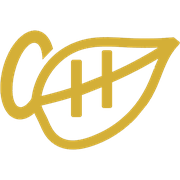
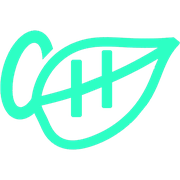
cyanblue

Changed region(s): [[0.0, 0.1667, 1.0, 0.8333]]

diff --git a/frontend/index.html b/frontend/index.html
@@ -2,11 +2,11 @@
 <html lang="en">
   <head>
     <meta charset="UTF-8" />
-    <link rel="icon" type="image/png" sizes="32x32" href="/favicon-32.png?v=2" />
-    <link rel="icon" type="image/png" sizes="16x16" href="/favicon-16.png?v=2" />
-    <link rel="icon" type="image/png" sizes="32x32" media="(prefers-color-scheme: dark)" href="/favicon-32-dark.png?v=2" />
-    <link rel="icon" type="image/png" sizes="16x16" media="(prefers-color-scheme: dark)" href="/favicon-16-dark.png?v=2" />
-    <link rel="apple-touch-icon" sizes="180x180" href="/apple-touch-icon.png?v=2" />
+    <link rel="icon" type="image/png" sizes="32x32" href="/favicon-32.png?v=3" />
+    <link rel="icon" type="image/png" sizes="16x16" href="/favicon-16.png?v=3" />
+    <link rel="icon" type="image/png" sizes="32x32" media="(prefers-color-scheme: dark)" href="/favicon-32-dark.png?v=3" />
+    <link rel="icon" type="image/png" sizes="16x16" media="(prefers-color-scheme: dark)" href="/favicon-16-dark.png?v=3" />
+    <link rel="apple-touch-icon" sizes="180x180" href="/apple-touch-icon.png?v=3" />
     <meta name="viewport" content="width=device-width, initial-scale=1.0" />
     <meta name="theme-color" content="#0a0a0a" />
     <meta name="description" content="Connor Haley — Computer Engineer. Embedded systems, real-time hardware, and full-stack engineering." />
